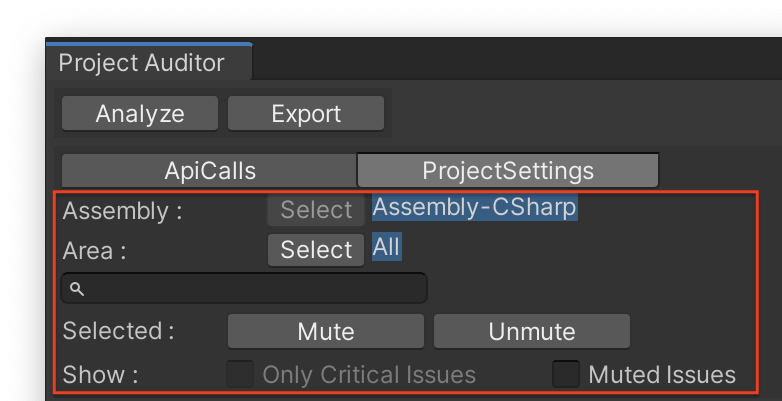
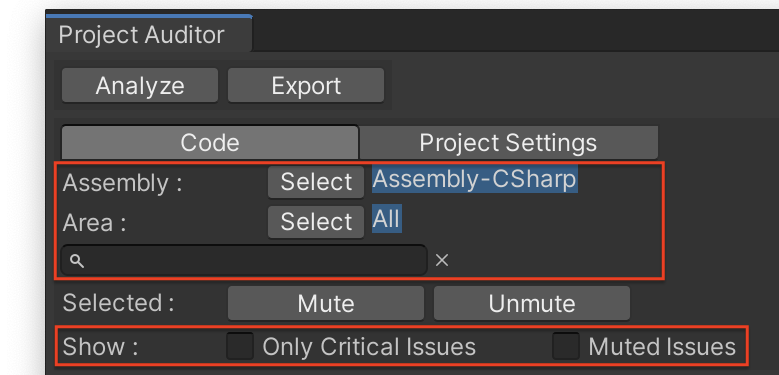
rename issue categories and update screenshots

diff --git a/Editor/UI/ProjectAuditorWindow.cs b/Editor/UI/ProjectAuditorWindow.cs
@@ -40,7 +40,7 @@ namespace Unity.ProjectAuditor.Editor.UI
             new AnalysisViewDescriptor
             {
                 category = IssueCategory.ApiCalls,
-                name = IssueCategory.ApiCalls.ToString(),
+                name = "Code",
                 groupByDescription = true,
                 showAssemblySelection = true,
                 showCritical = true,
@@ -51,7 +51,7 @@ namespace Unity.ProjectAuditor.Editor.UI
             new AnalysisViewDescriptor
             {
                 category = IssueCategory.ProjectSettings,
-                name = IssueCategory.ProjectSettings.ToString(),
+                name = "Project Settings",
                 groupByDescription = false,
                 showAssemblySelection = false,
                 showCritical = false,

diff --git a/Documentation~/index.md b/Documentation~/index.md
@@ -42,11 +42,11 @@ Once the Project Auditor window is opened. Press *Analyze* to analyse the projec
 
 The analysis might take several seconds, depending on how large the project is. Once the analysis completes, Project Auditor will show the report of potential issues, filters and additional information.
 
-<img src="images/settings-issues.png">
+<img src="images/overview.png">
 
 The issues are categorized based on whether they are found in code or project settings. The active category can also be changed.
 
-<img src="images/category.png">
+<img src="images/category.png" width="50%" height=50%>
 
 The filters allow the user to search through the list of potential issues by string, Assembly and other criterias.
 
